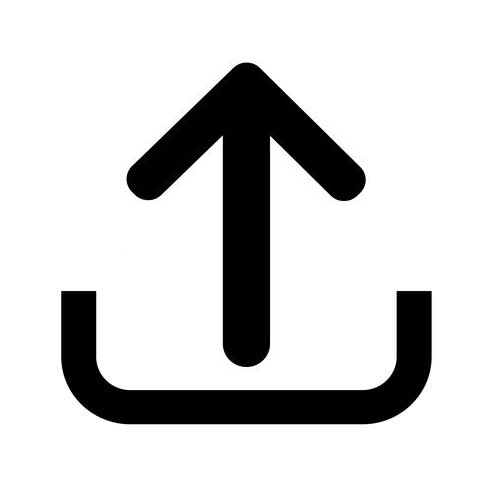
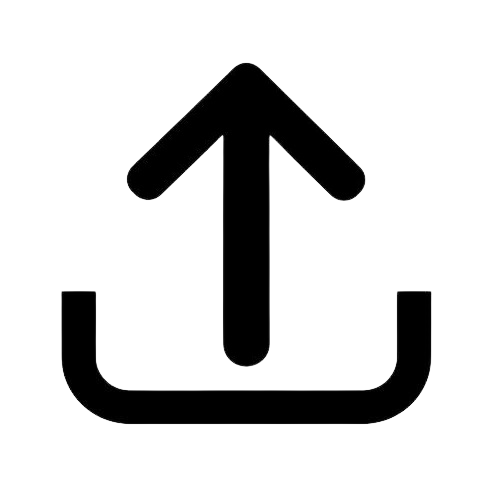
Update

diff --git a/index.html b/index.html
@@ -37,7 +37,7 @@
       <div class="botoes">
         <input class="btn" type="image" src="imagem/icon-eraser.png" id="btn-limpar" alt="Botão para apagar texto"> <!--Apaga o texto digitado-->
         <input class="btn" type="image" src="imagem/icon-upload.png" id="btn-abrir" alt="Botão para abirr arquivo do computador"> <!--Abri um arquivo do computador no editor de texto-->
-        <input class="btn" type="image" src="imagem/icon-download.jpg" id="btn-salvar" alt="Botão para salvar arquivo">
+        <input class="btn" type="image" src="imagem/icon-download.png" id="btn-salvar" alt="Botão para salvar arquivo">
         <input class="btn" type="image" src="imagem/icon-voice.png" id="btn-falar" alt="Botão para ativador o sintetizador de voz"> <!--Fala o texto digitado no editor-->
       </div>
     

diff --git a/css/estilo.css b/css/estilo.css
@@ -10,9 +10,10 @@ body{
 }
 
 h1{
+    font-size: 65px;
     text-align: center;
     color: #FDFF0F;
-    margin-top: 70px;
+    margin-top: 10px;
 }
 
 /*INÍCIO Estilo: editor de texto*/
@@ -59,7 +60,7 @@ input.btn{
     width: 150px;
     height: 150px;
     margin: 1.5em;
-    background-color: white;
+    background-color: #FDFF0F;
     border-radius: 50%;
 }
 
